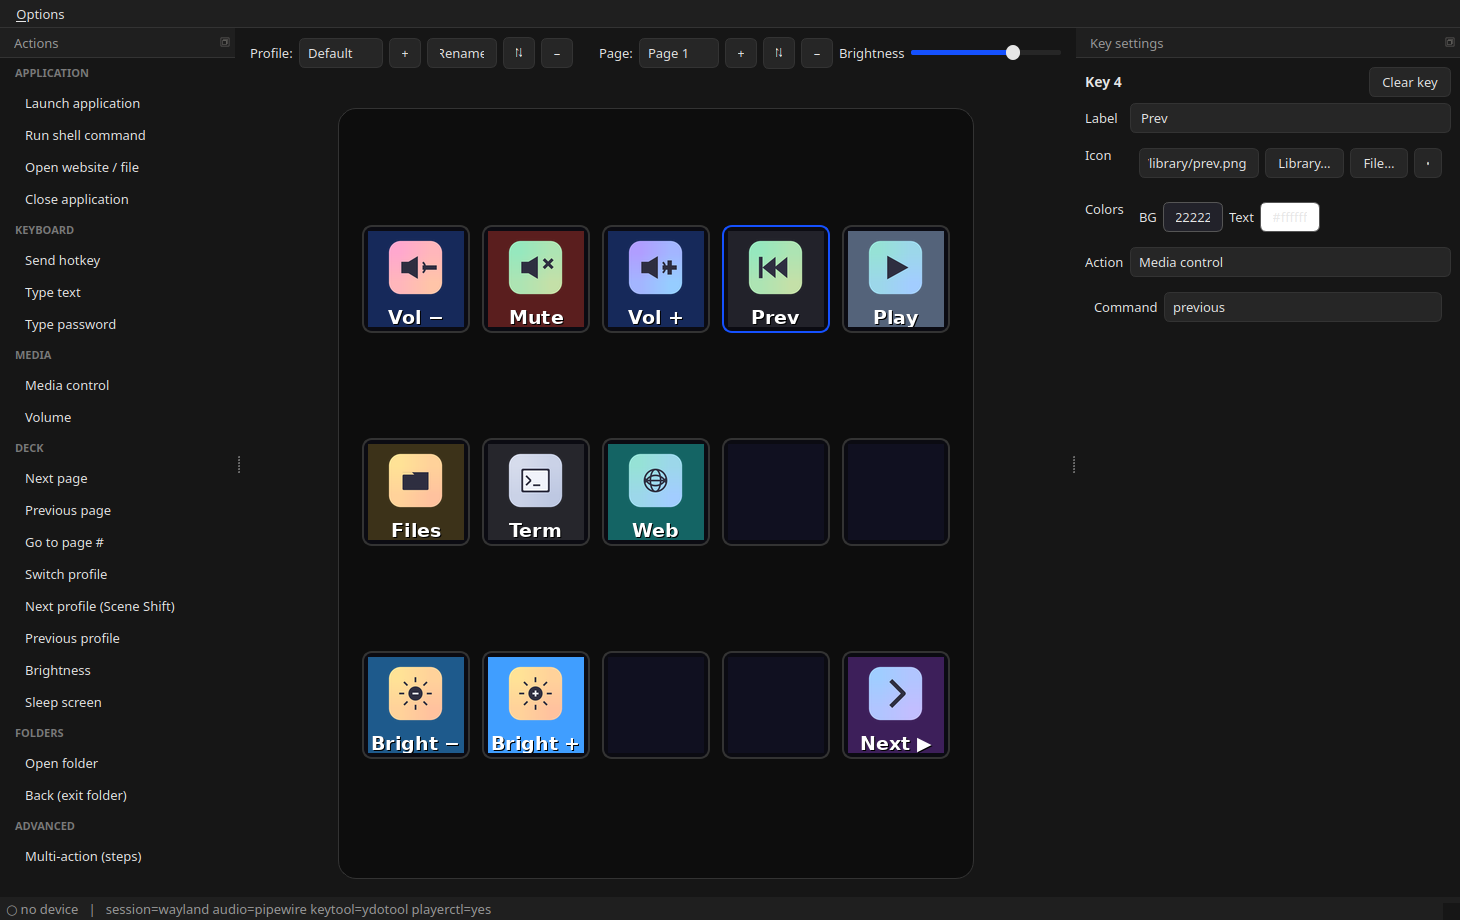
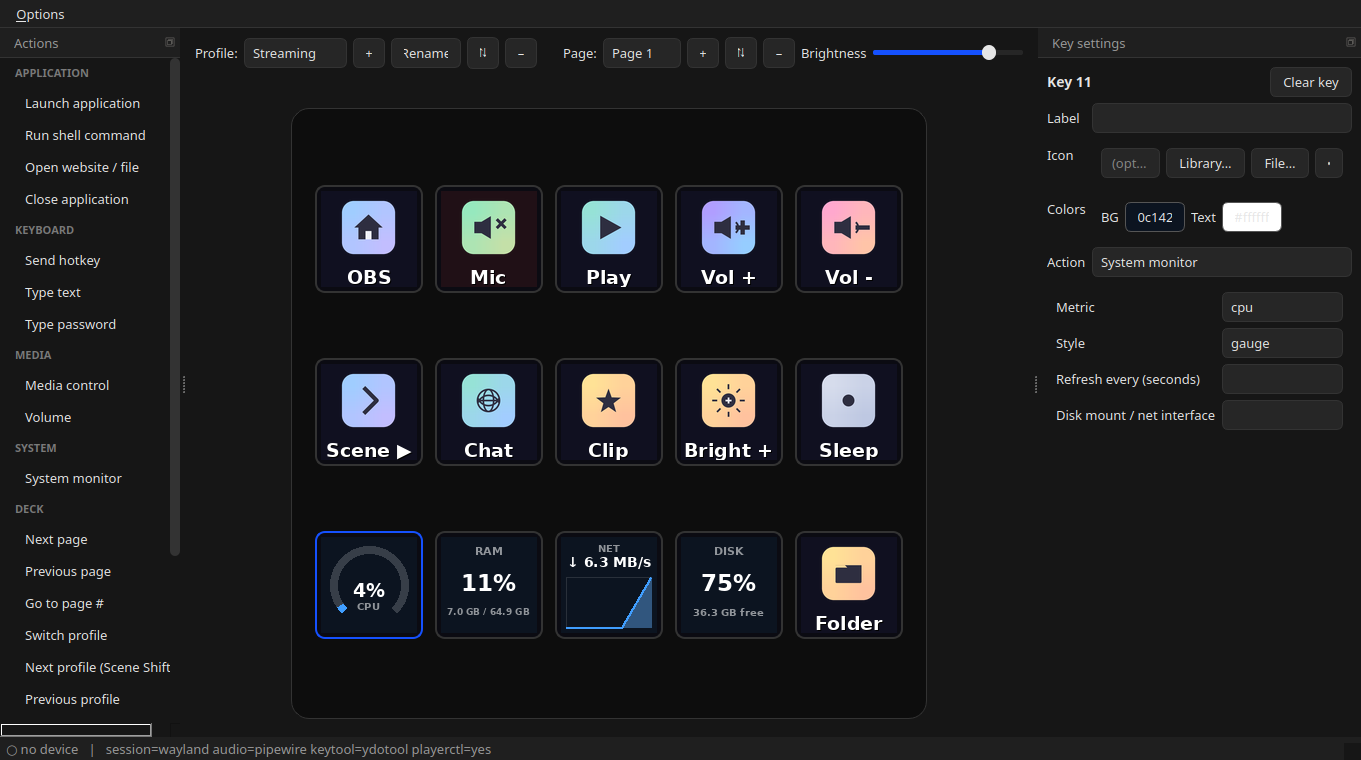
docs: project page shows the monitor-keys screenshots + feature bullet

diff --git a/docs/index.html b/docs/index.html
@@ -101,13 +101,14 @@ sudo apt install fifine-control-deck</pre>
     <section class="shots">
       <h2>The device &amp; the app</h2>
       <img src="img/device.jpg" alt="The fifine Control Deck — a 15-key macro keypad with per-key LCD keys and RGB edge lighting">
-      <img src="img/screenshot-01.png" alt="Configuration GUI: actions catalog, the live key grid, and the key-settings panel">
+      <img src="img/screenshot-01.png" alt="Configuration GUI: actions catalog, the live key grid with system-monitor keys (CPU gauge, RAM, network graph, disk), and the key-settings panel">
     </section>
 
     <section class="features">
       <h2>Features</h2>
       <ul>
         <li>Live per-key icons, labels &amp; colours (and animated GIF keys)</li>
+        <li><strong>System-monitor keys</strong> — live CPU, RAM, VRAM, network &amp; disk on the key LCDs, as numbers, gauges or graphs</li>
         <li>Drag-and-drop actions catalog</li>
         <li>Launch apps, hotkeys, type text, run scripts</li>
         <li>Media, volume &amp; brightness control</li>